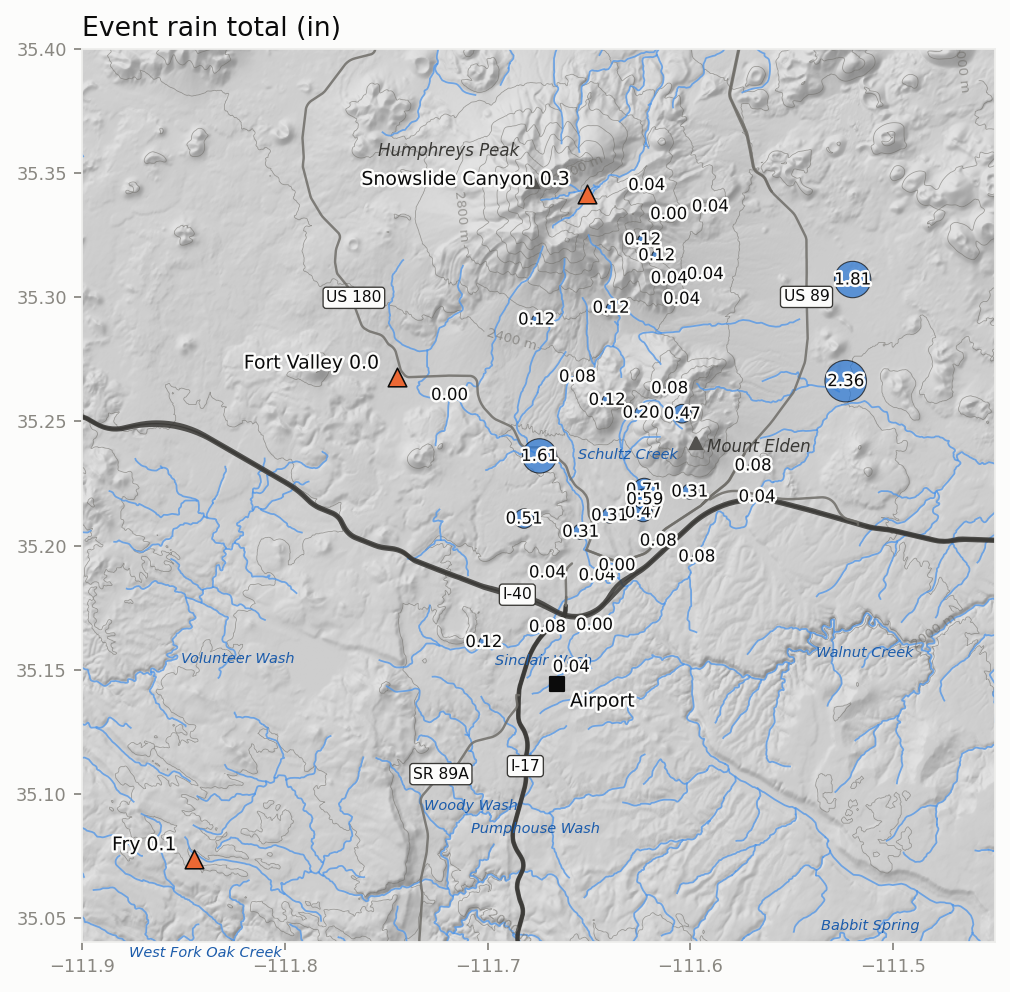
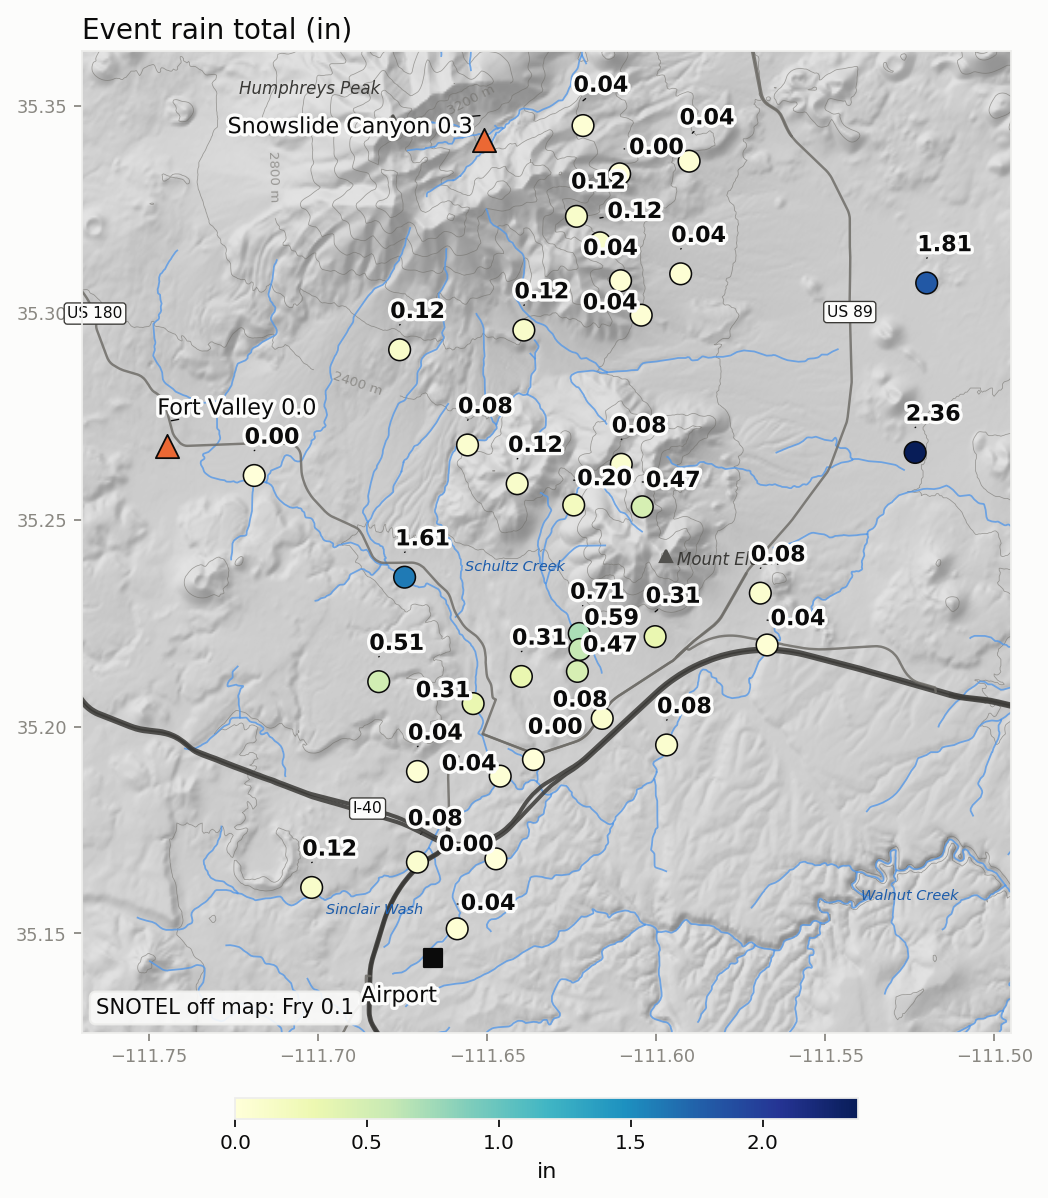
Gauge maps: crop to the network, color circles by total, larger non-overlapping labels
Claude-Session: https://claude.ai/code/session_01MhFE1WCkyQmug3iZrHupvD

diff --git a/flagweather/figures/events.py b/flagweather/figures/events.py
@@ -19,33 +19,66 @@ def point_series(ds):
 
 
 def gauge_map(net, values, title, snotel_sites=None, snotel_values=None, unit='in'):
-    """Gauges (circle area proportional to value) over shaded relief, streams and highways;
-    SNOTEL triangles; airport square."""
-    fig, ax = plt.subplots(figsize=(7, 6.3), facecolor=SURF)
-    basemap.draw(ax)
-    halo = [patheffects.withStroke(linewidth=2.2, foreground=SURF)]
+    """Gauges colored by value (with color bar) and labelled, on a map cropped to the network, over shaded
+    relief, streams and highways; SNOTEL triangles (sites off the map are listed in a corner note); airport square."""
+    from adjustText import adjust_text
+    airport = (-111.666, 35.144)
     v = values.reindex(net.index)
-    scale = 350 / max(float(v.max()), 0.01)
-    ax.scatter(net.lon, net.lat, s=v.fillna(0) * scale, color=BLUE, alpha=0.7, edgecolor=INK, lw=0.5, zorder=3)
-    for gid, r in net.iterrows():
-        if pd.notna(v[gid]):
-            ax.annotate(f'{v[gid]:.2f}', (r.lon, r.lat), fontsize=7.5, color=INK, ha='center', va='center', zorder=4,
-                        path_effects=halo)
-    if snotel_sites is not None:
-        ax.scatter(snotel_sites.lon, snotel_sites.lat, marker='^', s=70, color=ORANGE, edgecolor=INK, lw=0.7, zorder=4)
+    ok = v.notna()
+    xs = list(net.lon) + [airport[0]]
+    ys = list(net.lat) + [airport[1]]
+    inside = []
+    if snotel_sites is not None:   # keep SNOTEL sites that lie close to the network on the map
         for t, r in snotel_sites.iterrows():
-            lab = r['name'] if snotel_values is None or pd.isna(snotel_values.get(r['name']))                 else f"{r['name']} {snotel_values[r['name']]:.1f}"
-            ax.annotate(lab, (r.lon, r.lat), xytext=(-8, 4), textcoords='offset points', fontsize=8.5, color=INK,
-                        ha='right', zorder=4, path_effects=halo)
-    ax.scatter([-111.666], [35.144], marker='s', s=40, color=INK, zorder=4)
-    ax.annotate('Airport', (-111.666, 35.144), xytext=(6, -10), textcoords='offset points', fontsize=8.5, color=INK,
-                zorder=4, path_effects=halo)
+            if min(net.lon) - 0.06 <= r.lon <= max(net.lon) + 0.06 and min(net.lat) - 0.06 <= r.lat <= max(net.lat) + 0.06:
+                inside.append(t)
+                xs.append(r.lon)
+                ys.append(r.lat)
+    pad_x, pad_y = 0.025, 0.018
+    ext = (min(xs) - pad_x, max(xs) + pad_x, min(ys) - pad_y, max(ys) + pad_y)
+    fig, ax = plt.subplots(figsize=(7, 7.6), facecolor=SURF)
+    basemap.draw(ax, extent=ext)
+    halo = [patheffects.withStroke(linewidth=3, foreground=SURF)]
+    vmax = max(float(v.max()), 0.01)
+    cmap = plt.get_cmap('YlGnBu')
+    sc = ax.scatter(net.lon[ok], net.lat[ok], c=v[ok], cmap=cmap, vmin=0, vmax=vmax, s=95, edgecolor=INK, lw=0.7,
+                    zorder=3)
+    ax.scatter(net.lon[~ok], net.lat[~ok], s=40, facecolor='none', edgecolor=MUTED, lw=0.8, zorder=3)
+    texts = [ax.text(r.lon, r.lat + 0.006, f'{v[gid]:.2f}', fontsize=10, color=INK, ha='center', va='center', zorder=5,
+                     fontweight='semibold', path_effects=halo) for gid, r in net[ok].iterrows()]
+    markers = [sc]
+    if snotel_sites is not None:
+        off = []
+        for t, r in snotel_sites.iterrows():
+            val = None if snotel_values is None else snotel_values.get(r['name'])
+            lab = r['name'] + ('' if val is None or pd.isna(val) else f' {val:.1f}')
+            if t in inside:
+                markers.append(ax.scatter([r.lon], [r.lat], marker='^', s=110, color=ORANGE, edgecolor=INK, lw=0.8,
+                                          zorder=4))
+                texts.append(ax.text(r.lon, r.lat + 0.006, lab, fontsize=10, color=INK, ha='center', va='center', zorder=5,
+                                     path_effects=halo))
+            else:
+                off.append(lab)
+        if off:
+            ax.text(0.015, 0.015, 'SNOTEL off map: ' + ', '.join(off), transform=ax.transAxes, fontsize=9.5,
+                    color=INK, ha='left', va='bottom', zorder=6,
+                    bbox=dict(boxstyle='round,pad=0.3', fc=SURF, ec=GRID, alpha=0.9))
+    markers.append(ax.scatter([airport[0]], [airport[1]], marker='s', s=60, color=INK, zorder=4))
+    texts.append(ax.text(airport[0], airport[1] - 0.006, 'Airport', fontsize=10, color=INK, ha='center', va='center', zorder=5,
+                         path_effects=halo))
     ax.set_aspect(1 / np.cos(np.deg2rad(35.2)))
-    ax.set_title(title, loc='left', color=INK)
+    ax.set_title(title, loc='left', color=INK, fontsize=12.5)
     ax.tick_params(colors=MUTED, labelsize=8)
     for sp in ax.spines.values():
         sp.set_color(GRID)
+    cb = fig.colorbar(sc, ax=ax, orientation='horizontal', fraction=0.035, pad=0.06, aspect=30, shrink=0.6)
+    cb.set_label(unit, color=INK, fontsize=10)
+    cb.ax.tick_params(labelsize=9, colors=INK)
+    cb.outline.set_edgecolor(GRID)
     fig.tight_layout()
+    px = [o for m in markers for o in m.get_offsets()]
+    adjust_text(texts, x=[q[0] for q in px], y=[q[1] for q in px], ax=ax, expand=(1.1, 1.25), expand_axes=False,
+                arrowprops=dict(arrowstyle='-', color=INK, lw=0.6))
     return fig
 
 

diff --git a/scripts/make_event_page.py b/scripts/make_event_page.py
@@ -52,7 +52,7 @@ if ok:
 ```
 
 ```{{python}}
-#| fig-cap: "Event rain total at each city and county gauge (circle area proportional to total, labels in inches) over shaded relief (USGS 3DEP), 200-m elevation contours, streams (USGS NHD) and highways (Census TIGER). Orange triangles: SNOTEL sites with event precipitation (in). Square: Flagstaff airport."
+#| fig-cap: "Event rain total at each city and county gauge (circle color and label show the total in inches; map cropped to the network) over shaded relief (USGS 3DEP), 200-m elevation contours, streams (USGS NHD) and highways (Census TIGER). Orange triangles: SNOTEL sites with event precipitation (in). Square: Flagstaff airport."
 if ok:
     figs.gauge_map(ev.net, ev.totals, 'Event rain total (in)', snotel.stations(list(SNOTEL)), ev.snotel_stats().precip)
     plt.show()
